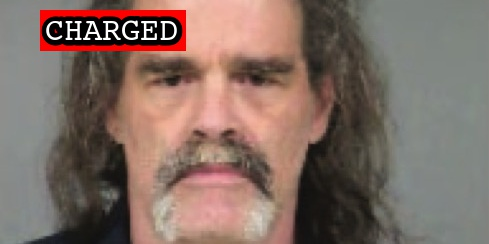
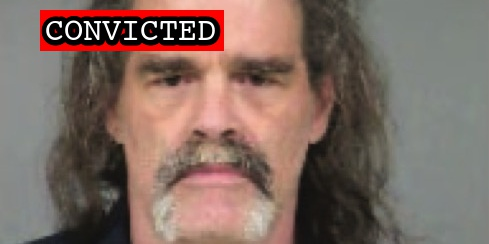
Latest import

Changed region(s): [[0.1227, 0.0287, 0.4601, 0.2295]]

diff --git a/docs/_suspects/lisa-homer.md b/docs/_suspects/lisa-homer.md
@@ -33,21 +33,21 @@ description: Click for latest case details. Suspects innocent until proven guilt
 author: seditiontrack
 layout: suspect
 published: true
-caseNumber: 1:21-mj-657
+caseNumber: 1:22-cr-238
 videos:
 charges:
-  - code: 40 USC § 5104(e)(2)(G)
-    title: Parading, demonstrating or picketing in a Capitol building
-    url: https://www.law.cornell.edu/uscode/text/40/5104
-    felony: false
+- code: 40 USC § 5104(e)(2)(G)
+  title: Parading, demonstrating or picketing in a Capitol building
+  url: https://www.law.cornell.edu/uscode/text/40/5104
+  felony: false
 sentence:
   - 3 years probation
   - $5000 fine
   - $500 restitution
 ---
-
 - [News Report](https://www.yakimaherald.com/news/local/former-yakima-resident-lisa-homer-charged-with-entering-u-s-capitol-during-jan-6-insurrection/article_ad58c5ea-1f5d-51b5-b564-84ef95306a12.html)
 - [Statement of Facts](https://www.justice.gov/usao-dc/case-multi-defendant/file/1458991/download)
-- [Plea Agreement](https://storage.courtlistener.com/recap/gov.uscourts.dcd.245347/gov.uscourts.dcd.245347.34.0_1.pdf)
-- [Statement of Offense](https://storage.courtlistener.com/recap/gov.uscourts.dcd.245347/gov.uscourts.dcd.245347.35.0_1.pdf)
+- [Plea Agreement](https://www.justice.gov/usao-dc/case-multi-defendant/file/1524986/download)
+- [Statement of Offense](https://www.justice.gov/usao-dc/case-multi-defendant/file/1524991/download)
 - [Sentencing Memo](https://storage.courtlistener.com/recap/gov.uscourts.dcd.245347/gov.uscourts.dcd.245347.29.0.pdf)
+- [Information](https://www.justice.gov/usao-dc/case-multi-defendant/file/1524981/download)

diff --git a/docs/_suspects/nicole-prado.md b/docs/_suspects/nicole-prado.md
@@ -36,10 +36,10 @@ published: true
 caseNumber: 1:21-cr-403
 videos:
 charges:
-  - code: 40 USC § 5104(e)(2)(G)
-    title: Parading, demonstrating or picketing in a Capitol building
-    url: https://www.law.cornell.edu/uscode/text/40/5104
-    felony: false
+- code: 40 USC § 5104(e)(2)(G)
+  title: Parading, demonstrating or picketing in a Capitol building
+  url: https://www.law.cornell.edu/uscode/text/40/5104
+  felony: false
 sentence:
   - 1 year probation
   - 60 day curfew (7:00 PM)
@@ -47,9 +47,11 @@ sentence:
   - 60 hours community service
   - $500 restitution
 ---
-
 - [News Report](https://www.wusa9.com/article/news/national/capitol-riots/meet-the-new-congresswoman-friends-instagram-post-leads-to-womans-capitol-riot-arrest-nicole-prado-trump-gaithersburg/65-f436d15e-6d06-462d-9a94-5ac2d9ea4e11)
 - [Information](https://www.justice.gov/usao-dc/case-multi-defendant/file/1404496/download)
 - [Statement of Facts](https://www.justice.gov/opa/case-multi-defendant/file/1404706/download)
 - [Plea Agreement](https://www.justice.gov/usao-dc/case-multi-defendant/file/1452276/download)
 - [Statement of Offense](https://www.justice.gov/usao-dc/case-multi-defendant/file/1452281/download)
+- [Sentencing Memo](https://extremism.gwu.edu/sites/g/files/zaxdzs2191/f/Nicole%20Prado%20Defense%20Response%20to%20Government%20Sentencing%20Memorandum.pdf)
+- [Sentencing Hearing Transcript](https://extremism.gwu.edu/sites/g/files/zaxdzs2191/f/Nicole%20Prado%20Sentencing%20Hearing%20Transcript.pdf)
+- [Judgement](https://extremism.gwu.edu/sites/g/files/zaxdzs2191/f/Nicole%20Prado%20Judgment.pdf)

diff --git a/docs/_suspects/michael-rusyn.md b/docs/_suspects/michael-rusyn.md
@@ -36,17 +36,16 @@ published: true
 caseNumber: 1:21-cr-303
 videos:
 charges:
-  - code: 40 USC § 5104(e)(2)(G)
-    title: Parading, Demonstrating or Picketing in a Capitol Building
-    url: https://www.law.cornell.edu/uscode/text/40/5104
-    felony: false
+- code: 40 USC § 5104(e)(2)(G)
+  title: Parading, Demonstrating or Picketing in a Capitol Building
+  url: https://www.law.cornell.edu/uscode/text/40/5104
+  felony: false
 sentence:
   - 60 days home detention
   - 2 years probation
   - $2000 fine
   - $500 restitution
 ---
-
 - [News Report](https://www.wnep.com/article/news/local/lackawanna-county/olyphant-man-charged-for-role-in-capitol-riot/523-ca785ac4-a026-400e-9517-7efebb9c0d6a)
 - [Complaint](https://www.justice.gov/usao-dc/case-multi-defendant/file/1385906/download)
 - [Information](https://www.justice.gov/usao-dc/case-multi-defendant/file/1413356/download)
@@ -54,3 +53,5 @@ sentence:
 - [Plea Agreement](https://www.justice.gov/usao-dc/case-multi-defendant/file/1432556/download)
 - [Sentencing Memo](https://extremism.gwu.edu/sites/g/files/zaxdzs2191/f/Michael%20Joseph%20Rusyn%20Government%20Sentencing%20Memorandum.pdf)
 - [Statement of Offense](https://extremism.gwu.edu/sites/g/files/zaxdzs2191/f/Michael%20Joseph%20Rusyn%20Statement%20of%20Offense.pdf)
+- [Sentencing Hearing Transcript](https://extremism.gwu.edu/sites/g/files/zaxdzs2191/f/Michael%20Joseph%20Rusyn%20Sentencing%20Hearing%20Transcript.pdf)
+- [Judgement](https://extremism.gwu.edu/sites/g/files/zaxdzs2191/f/Michael%20Joseph%20Rusyn%20Judgment.pdf)

diff --git a/docs/_suspects/gary-wickersham.md b/docs/_suspects/gary-wickersham.md
@@ -36,20 +36,21 @@ published: true
 caseNumber: 1:21-cr-606
 videos:
 charges:
-  - code: 40 USC § 5104(e)(2)(G)
-    title: Parading, demonstrating or picketing in a Capitol building
-    url: https://www.law.cornell.edu/uscode/text/40/5104
-    felony: false
+- code: 40 USC § 5104(e)(2)(G)
+  title: Parading, demonstrating or picketing in a Capitol building
+  url: https://www.law.cornell.edu/uscode/text/40/5104
+  felony: false
 sentence:
   - 90 days home detention
   - 3 years probation
   - $2000 fine
   - $500 restitution
 ---
-
 - [News Report](https://www.thedailybeast.com/pennsylvania-man-gary-wickersham-arrested-in-capitol-riot-i-can-enter-the-capitol-because-i-pay-my-taxes)
 - [Statement of Facts](https://www.justice.gov/usao-dc/case-multi-defendant/file/1443386/download)
 - [Information](https://www.justice.gov/usao-dc/case-multi-defendant/file/1439596/download)
 - [Plea Agreement](https://www.justice.gov/usao-dc/case-multi-defendant/file/1443381/download)
 - [Sentencing Memo](https://extremism.gwu.edu/sites/g/files/zaxdzs2191/f/Wickersham%20Defense%20Sentencing%20Memo.pdf)
 - [Statement of Offense](https://www.justice.gov/usao-dc/case-multi-defendant/file/1443386/download)
+- [Sentencing Hearing Transcript](https://extremism.gwu.edu/sites/g/files/zaxdzs2191/f/Gary%20Wickersham%20Sentencing%20Hearing%20Transcript.pdf)
+- [Judgement](https://extremism.gwu.edu/sites/g/files/zaxdzs2191/f/Gary%20Wickersham%20Judgment.pdf)

diff --git a/docs/_suspects/brian-stenz.md b/docs/_suspects/brian-stenz.md
@@ -36,10 +36,10 @@ published: true
 caseNumber:
 videos:
 charges:
-  - code: 40 USC § 5104(e)(2)(G)
-    title: Parading, demonstrating or picketing in a Capitol building
-    url: https://www.law.cornell.edu/uscode/text/40/5104
-    felony: false
+- code: 40 USC § 5104(e)(2)(G)
+  title: Parading, demonstrating or picketing in a Capitol building
+  url: https://www.law.cornell.edu/uscode/text/40/5104
+  felony: false
 sentence:
   - 14 days intermittent confinement
   - 60 days home detention
@@ -47,7 +47,6 @@ sentence:
   - $2500 fine
   - $500 restitution
 ---
-
 - [News Report](https://www.msn.com/en-us/news/crime/montgomery-county-man-charged-in-capitol-insurrection/ar-BB1geNiC)
 - [Complaint](https://www.justice.gov/opa/case-multi-defendant/file/1391156/download)
 - [Statement of Facts](https://www.justice.gov/opa/case-multi-defendant/file/1391161/download)
@@ -56,3 +55,4 @@ sentence:
 - [Sentencing Memo](https://extremism.gwu.edu/sites/g/files/zaxdzs2191/f/Brian%20Stenz%20Defense%20Response%20to%20Government%20Sentencing%20Memorandum.pdf)
 - [Judgement](https://storage.courtlistener.com/recap/gov.uscourts.dcd.233158/gov.uscourts.dcd.233158.38.0.pdf)
 - [Statement of Offense](https://www.justice.gov/usao-dc/case-multi-defendant/file/1448106/download)
+- [Sentencing Hearing Transcript](https://extremism.gwu.edu/sites/g/files/zaxdzs2191/f/Brian%20Stenz%20Sentencing%20Hearing%20Transcript.pdf)

diff --git a/docs/_suspects/anthony-scirica.md b/docs/_suspects/anthony-scirica.md
@@ -36,18 +36,20 @@ published: true
 caseNumber: 1:21-cr-457
 videos:
 charges:
-  - code: 40 USC § 5104(e)(2)(G)
-    title: Parading, demonstrating or picketing in a Capitol building
-    url: https://www.law.cornell.edu/uscode/text/40/5104
-    felony: false
+- code: 40 USC § 5104(e)(2)(G)
+  title: Parading, demonstrating or picketing in a Capitol building
+  url: https://www.law.cornell.edu/uscode/text/40/5104
+  felony: false
 sentence:
   - 15 days incarceration
   - $500 fine
   - $500 restitution
 ---
-
 - [News Report](https://www.newsweek.com/capitol-rioter-anthony-scirica-charged-after-friend-snapchats-about-him-tv-1601370)
 - [Statement of Facts](https://www.justice.gov/usao-dc/case-multi-defendant/file/1405461/download)
 - [Information](https://www.justice.gov/usao-dc/case-multi-defendant/file/1413476/download)
 - [Plea Agreement](https://www.justice.gov/usao-dc/case-multi-defendant/file/1438296/download)
 - [Statement of Offense](https://www.justice.gov/usao-dc/case-multi-defendant/file/1438301/download)
+- [Sentencing Memo](https://extremism.gwu.edu/sites/g/files/zaxdzs2191/f/Anthony%20Scirica%20Government%20Sentencing%20Memorandum.pdf)
+- [Sentencing Hearing Transcript](https://extremism.gwu.edu/sites/g/files/zaxdzs2191/f/Anthony%20Scirica%20Sentencing%20Hearing%20Transcript.pdf)
+- [Judgement](https://extremism.gwu.edu/sites/g/files/zaxdzs2191/f/Anthony%20Scirica%20Judgment.pdf)

diff --git a/docs/_suspects/dana-winn.md b/docs/_suspects/dana-winn.md
@@ -36,17 +36,16 @@ published: true
 caseNumber: 1:21-cr-139
 videos:
 charges:
-  - code: 18 USC § 1752(a)(1)
-    title: Entering a restricted building or grounds
-    url: https://www.law.cornell.edu/uscode/text/18/1752
-    felony: false
+- code: 18 USC § 1752(a)(1)
+  title: Entering a restricted building or grounds
+  url: https://www.law.cornell.edu/uscode/text/18/1752
+  felony: false
 sentence:
   - 10 days intermittent confinement
   - 1 year probation
   - 100 hours community service
   - $500 restitution
 ---
-
 - [News Report](https://www.thedailybeast.com/florida-couple-rachael-pert-and-dana-joe-winn-charged-in-capitol-riots)
 - [Complaint](https://www.justice.gov/opa/page/file/1360796/download)
 - [Statement of Facts](https://www.justice.gov/opa/page/file/1360796/download)
@@ -56,3 +55,4 @@ sentence:
 - [Sentencing Memo](https://extremism.gwu.edu/sites/g/files/zaxdzs2191/f/Dana%20Winn%20Defense%20Sentencing%20Memorandum.pdf)
 - [Judgement](https://extremism.gwu.edu/sites/g/files/zaxdzs2191/f/Dana%20Winn%20Judgment.pdf)
 - [Statement of Offense](https://www.justice.gov/usao-dc/case-multi-defendant/file/1440126/download)
+- [Sentencing Hearing Transcript](https://extremism.gwu.edu/sites/g/files/zaxdzs2191/f/Rachael%20Pert%20and%20Dana%20Joe%20Winn%20Sentencing%20Hearing%20Transcript.pdf)

diff --git a/docs/_suspects/rachael-pert.md b/docs/_suspects/rachael-pert.md
@@ -36,16 +36,15 @@ published: true
 caseNumber: 1:21-cr-139
 videos:
 charges:
-  - code: 18 USC § 1752(a)(1)
-    title: Entering a restricted building or grounds
-    url: https://www.law.cornell.edu/uscode/text/18/1752
-    felony: false
+- code: 18 USC § 1752(a)(1)
+  title: Entering a restricted building or grounds
+  url: https://www.law.cornell.edu/uscode/text/18/1752
+  felony: false
 sentence:
   - 2 years probation
   - 100 hours community service
   - $500 restitution
 ---
-
 - [News Report](https://www.thedailybeast.com/florida-couple-rachael-pert-and-dana-joe-winn-charged-in-capitol-riots)
 - [Complaint](https://www.justice.gov/opa/page/file/1360796/download)
 - [Statement of Facts](https://www.justice.gov/opa/page/file/1360796/download)
@@ -55,3 +54,4 @@ sentence:
 - [Sentencing Memo](https://extremism.gwu.edu/sites/g/files/zaxdzs2191/f/Rachael%20Pert%20Defense%20Sentencing%20Memorandum.pdf)
 - [Judgement](https://extremism.gwu.edu/sites/g/files/zaxdzs2191/f/Rachael%20Pert%20Judgment.pdf)
 - [Statement of Offense](https://www.justice.gov/usao-dc/case-multi-defendant/file/1440116/download)
+- [Sentencing Hearing Transcript](https://extremism.gwu.edu/sites/g/files/zaxdzs2191/f/Rachael%20Pert%20and%20Dana%20Joe%20Winn%20Sentencing%20Hearing%20Transcript.pdf)

diff --git a/docs/_suspects/brent-holdridge.md b/docs/_suspects/brent-holdridge.md
@@ -4,17 +4,18 @@ lastName: Holdridge
 hashtag:
 aka:
 residence: California
-status: Charged
+status: Convicted
 date: 2021-12-02
 charged: 2021-12-02
 indicted:
-convicted:
+convicted: 2022-08-04
+acquitted:
 sentenced:
 dismissed:
 deceased:
 plea_hearing:
-sentencing:
-trial_date: 2022-08-29
+trial_date:
+sentencing: 2022-12-02
 age: 56
 occupation:
 affiliations:
@@ -35,9 +36,15 @@ published: true
 caseNumber: 1:21-cr-739
 videos:
 charges:
+  - code: 40 USC § 5104(e)(2)(G)
+    title: Parading, demonstrating or picketing in a Capitol building
+    url: https://www.law.cornell.edu/uscode/text/40/5104
+    felony: false
 sentence:
 ---
 
 - [News Report](https://www.msn.com/en-us/news/crime/eureka-man-linked-to-jan-6-riot-to-appear-in-dc-court/ar-AARtjTH)
 - [Statement of Facts](https://www.justice.gov/usao-dc/case-multi-defendant/file/1459121/download)
-- [Information](https://www.justice.gov/usao-dc/case-multi-defendant/file/1459111/download)
+- [Information](https://www.justice.gov/usao-dc/case-multi-defendant/file/1524821/download)
+- [Plea Agreement](https://www.justice.gov/usao-dc/case-multi-defendant/file/1524811/download)
+- [Statement of Offense](https://www.justice.gov/usao-dc/case-multi-defendant/file/1524816/download)

diff --git a/docs/_suspects/juliano-gross.md b/docs/_suspects/juliano-gross.md
@@ -4,15 +4,17 @@ lastName: Gross
 hashtag:
 aka:
 residence: New Jersey
-status: Charged
+status: Convicted
 date: 2022-01-11
 charged: 2022-01-11
 indicted:
-convicted:
+convicted: 2022-07-29
+acquitted:
 sentenced:
 dismissed:
 deceased:
-plea_hearing:
+plea_hearing: 2022-07-29
+trial_date:
 sentencing:
 age:
 occupation:
@@ -31,10 +33,17 @@ description: Click for latest case details. Suspects innocent until proven guilt
 author: seditiontrack
 layout: suspect
 published: true
-caseNumber: 1:22-mj-000
+caseNumber: 1:22-cr-56
 videos:
 charges:
+- code: 40 USC § 5104(e)(2)(G)
+  title: Parading, demonstrating or picketing in a Capitol building
+  url: https://www.law.cornell.edu/uscode/text/40/5104
+  felony: false
 sentence:
 ---
 - [News Report](https://www.yahoo.com/news/capitol-riot-suspect-livestreamed-insurrection-172911142.html)
 - [Statement of Facts](https://www.justice.gov/usao-dc/case-multi-defendant/file/1481381/download)
+- [Information](https://www.justice.gov/usao-dc/case-multi-defendant/file/1524826/download)
+- [Plea Agreement](https://www.justice.gov/usao-dc/case-multi-defendant/file/1524831/download)
+- [Statement of Offense](https://www.justice.gov/usao-dc/case-multi-defendant/file/1524836/download)

diff --git a/docs/_suspects/tyler-slaeker.md b/docs/_suspects/tyler-slaeker.md
@@ -4,16 +4,18 @@ lastName: Slaeker
 hashtag: TylerSlaeker
 aka:
 residence: Washington
-status: Charged
+status: Convicted
 date: 2021-07-27
 charged: 2021-07-27
 indicted:
-convicted:
+convicted: 2022-06-10
+acquitted:
 sentenced:
 dismissed:
 deceased:
-plea_hearing:
-sentencing:
+plea_hearing: 2022-06-10
+trial_date:
+sentencing: 2022-11-16
 age:
 occupation:
 affiliations:
@@ -34,7 +36,13 @@ published: true
 caseNumber:
 videos:
 charges:
+  - code: 18 USC § 1752(a)(1)
+    title: Entering a restricted building or grounds
+    url: https://www.law.cornell.edu/uscode/text/18/1752
+    felony: false
 sentence:
 ---
+
 - [News Report](https://www.insider.com/capitol-rioter-arrested-after-mother-posted-his-pictures-on-facebook-2021-8)
 - [Statement of Facts](https://extremism.gwu.edu/sites/g/files/zaxdzs2191/f/Tyler%20Slaeker%20Affidavit%20in%20Support%20of%20Application%20for%20Arrest%20Warrant.pdf)
+- [Plea Agreement](https://storage.courtlistener.com/recap/gov.uscourts.dcd.236035/gov.uscourts.dcd.236035.44.0.pdf)
